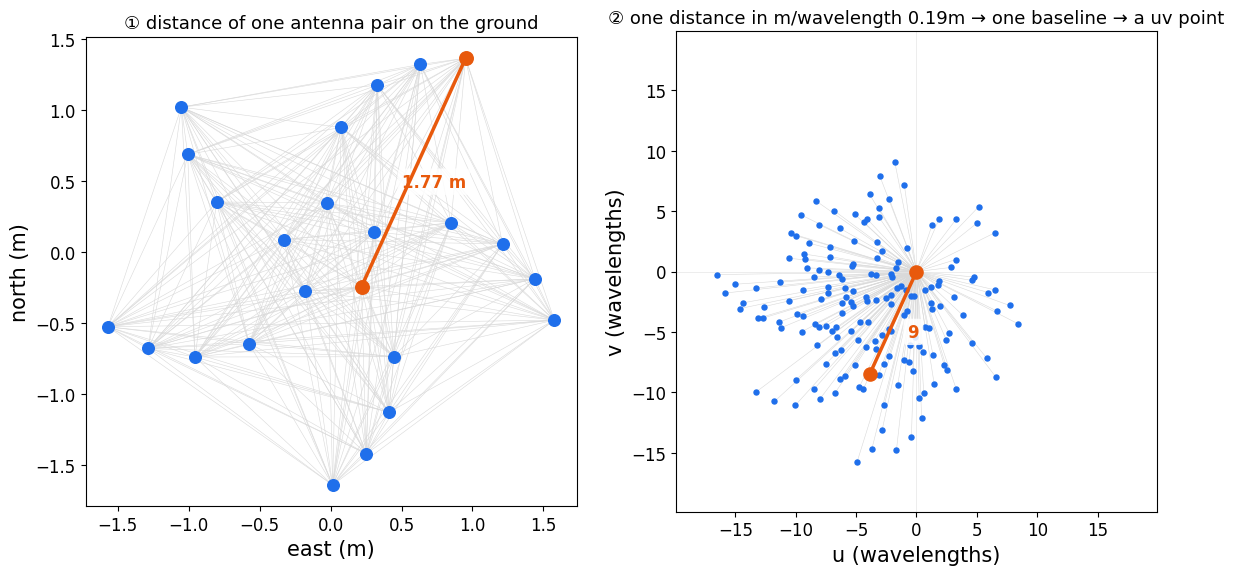
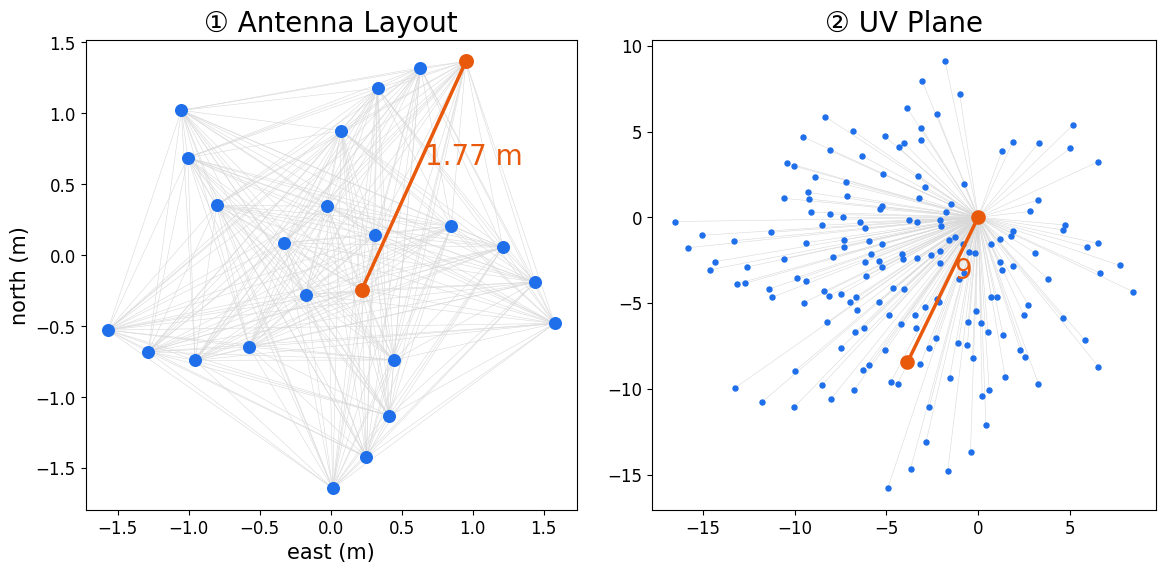
Title changed, Fringe slider variation added, Page number changed, uv1 changed

diff --git a/src/App.jsx b/src/App.jsx
@@ -27,7 +27,7 @@ const SLIDE_DATA = [
       { src: "/conf3.jpg", caption: "Prof. Tim Molteno lecturing" },
     ] },
 
-  { layout: "agenda", title: "What the Next 13 Minutes Look Like",
+  { layout: "agenda", title: "Overview of the talk",
     lead: "Interferometry: instead of one huge dish, link many small antennas — compare the waves each pair catches, and the maths turns them into a single giant telescope.",
     parts: [
       { num: "01", title: "Feel the Interferometry",
@@ -89,17 +89,36 @@ const SLIDE_DATA = [
     sep: 1.40, ang: 120, size: 160 },
 
 
-    { stage: "The Map", title: "A Baseline Becomes a Point",
+    { stage: "The Map", title: "Antennas and u-v plane",
     layout: "stack", images: ["/uv1.png"] },
-  { stage: "The Map", title: "Calibration Rotates the Arrows",
+  { stage: "The Map", title: "Visibility Vectors",
     layout: "stack", images: ["/uv2.png"] },
-  { stage: "The Map", title: "Corrected, Plus the Conjugate Twins",
+  { stage: "The Map", title: "Visibility Complex Conjugates",
     layout: "stack", images: ["/uv3.png"] },
-  { stage: "The Map", title: "The Complete uv-Map — and the To-Do List",
-    layout: "stack", images: ["/uv4.png"] },
 
-  { stage: "The Payoff", title: "Add the Fringes → the Sky Appears",
+  { stage: "The Payoff", title: "All Pairs in the Array - fringe",
     layout: "stack", images: [], after: "slider" },
+
+  // ── PRINT-ONLY: nine frozen frames of the same slider, so the PDF shows the
+  //    baselines accumulating the way the live control does. 34 frames exist.
+  { stage: "The Payoff", title: "All Pairs in the Array - fringe", printOnly: true,
+    layout: "stack", images: [], after: "slider", frame: 0 },
+  { stage: "The Payoff", title: "All Pairs in the Array - fringe", printOnly: true,
+    layout: "stack", images: [], after: "slider", frame: 3 },
+  { stage: "The Payoff", title: "All Pairs in the Array - fringe", printOnly: true,
+    layout: "stack", images: [], after: "slider", frame: 6 },
+  { stage: "The Payoff", title: "All Pairs in the Array - fringe", printOnly: true,
+    layout: "stack", images: [], after: "slider", frame: 10 },
+  { stage: "The Payoff", title: "All Pairs in the Array - fringe", printOnly: true,
+    layout: "stack", images: [], after: "slider", frame: 14 },
+  { stage: "The Payoff", title: "All Pairs in the Array - fringe", printOnly: true,
+    layout: "stack", images: [], after: "slider", frame: 19 },
+  { stage: "The Payoff", title: "All Pairs in the Array - fringe", printOnly: true,
+    layout: "stack", images: [], after: "slider", frame: 24 },
+  { stage: "The Payoff", title: "All Pairs in the Array - fringe", printOnly: true,
+    layout: "stack", images: [], after: "slider", frame: 29 },
+  { stage: "The Payoff", title: "All Pairs in the Array - fringe", printOnly: true,
+    layout: "stack", images: [], after: "slider", frame: 33 },
   
 
   // ───────── SLIDE 6: the whole pipeline in one picture ─────────
@@ -239,6 +258,11 @@ const SLIDE_DATA = [
 
 
 
+// Total shown in "N of TOTAL" — print-only variations don't count.
+const TOTAL_SLIDES = SLIDE_DATA.filter(s => !s.printOnly).length;
+// The links footer starts at the pipeline flowchart and runs to the end.
+const FOOTER_FROM = SLIDE_DATA.findIndex(s => s.layout === "flowchart");
+
 export default function App() {
 	  const currentUrl = typeof window !== 'undefined' ? window.location.href : 'https://stimela-talk.vercel.app';
 
@@ -249,16 +273,14 @@ export default function App() {
 				        // print-only slides don't consume a number: each carries the
 				        // number of the visible slide it varies.
 				        const visibleCount = SLIDE_DATA.slice(0, i + 1).filter(s => !s.printOnly).length;
-				        const formattedNumber = String(visibleCount).padStart(2, '0');
-
+				        
 				        return (
 						          <section key={slideIndex}
 						                   className={slide.printOnly ? "slide-page print-only" : "slide-page"}>
 						            <div className="minimalist-frame">
 						              
 						              <header className="slide-header">
-						                <span className="slide-num">{formattedNumber}</span>
-						                <div className="qr-container">
+						                						                <div className="qr-container">
 						                  <QRCodeSVG value={currentUrl} size={70} level={"L"} />
                                                                                                                 <span className="qr-label">
                                 <span className="qr-cta">SCAN TO PLAY WITH THIS SLIDE</span>
@@ -326,7 +348,7 @@ export default function App() {
             }
     <h1>{slide.title}</h1>
     <div className="img-stack">
-      {slide.after === "slider" && <FringeSlider />}
+      {slide.after === "slider" && <FringeSlider frame={slide.frame ?? null} />}
       {slide.images.map((src, k) => <img key={k} src={src} alt="" />)}
     </div>
   </div>
@@ -522,16 +544,20 @@ export default function App() {
   </div>
 )}
 
-<footer className="slide-links">
-  <div className="sl-item">
-    <span className="sl-kicker">TART map &amp; documentation</span>
-    <code>https://tart.elec.ac.nz/</code>
-  </div>
-  <div className="sl-item">
-    <span className="sl-kicker">Stimela recipes &amp; documentation</span>
-    <code>git clone https://github.com/gwynbleiddrivia/tart-stimela-run</code>
-  </div>
-</footer>
+{i >= FOOTER_FROM && (
+  <footer className="slide-links">
+    <div className="sl-item">
+      <span className="sl-kicker">TART map &amp; documentation</span>
+      <code>https://tart.elec.ac.nz/</code>
+    </div>
+    <div className="sl-item">
+      <span className="sl-kicker">Stimela recipes &amp; documentation</span>
+      <code>git clone https://github.com/gwynbleiddrivia/tart-stimela-run</code>
+    </div>
+  </footer>
+)}
+
+<div className="page-num">{visibleCount} of {TOTAL_SLIDES}</div>
 
 
 

diff --git a/src/FringeSlider.jsx b/src/FringeSlider.jsx
@@ -1,16 +1,24 @@
 import { useState, useEffect } from "react";
 const N = 34;   // = the number Colab printed
-export default function FringeSlider() {
+// `frame` freezes the slider on one frame and hides the control — used by the
+// print-only slides, so the PDF can show the progression the live slider shows.
+export default function FringeSlider({ frame = null }) {
   const [i, setI] = useState(N - 1);
   useEffect(() => { for (let j = 0; j < N; j++) { const im = new Image(); im.src = `/frames/frame_${String(j).padStart(3,"0")}.png`; } }, []);
-  const src = `/frames/frame_${String(i).padStart(3,"0")}.png`;
+  const frozen = frame !== null;
+  const idx = frozen ? Math.max(0, Math.min(N - 1, frame)) : i;
+  const src = `/frames/frame_${String(idx).padStart(3,"0")}.png`;
   return (
     <div style={{ textAlign: "center", width: "100%" }}>
       <img src={src} alt="" onError={() => console.log("missing:", src)}
      style={{ maxWidth: "100%", height: "auto", borderRadius: 6 }} />
 
-      <input type="range" min={0} max={N-1} value={i} onChange={e => setI(+e.target.value)} style={{ width: "85%", marginTop: 12 }} />
-      <div style={{ fontFamily: "monospace", color: "#666", marginTop: 6 }}>drag → add baselines one by one</div>
+      {!frozen && (
+        <input type="range" min={0} max={N-1} value={i} onChange={e => setI(+e.target.value)} style={{ width: "85%", marginTop: 12 }} />
+      )}
+      <div style={{ fontFamily: "monospace", color: "#666", marginTop: 6 }}>
+        {frozen ? `${idx + 1} of ${N} baselines added` : "drag → add baselines one by one"}
+      </div>
     </div>
   );
 }

diff --git a/src/App.css b/src/App.css
@@ -397,6 +397,13 @@
   .ht-fig img { max-height: 48vh; }
 }
 
+/* --- PAGE NUMBER: bottom-right of every slide. In flow as the last child of
+       .minimalist-frame (which is a flex column), so it can never overlap the
+       links footer the way an absolutely-positioned one would. One small line. */
+.page-num { align-self: flex-end; flex: 0 0 auto; margin-top: 6px;
+            font-family: monospace; font-size: clamp(0.62rem, 0.85vw, 0.78rem);
+            letter-spacing: 0.5px; color: #999; user-select: none; }
+
 /* --- PRINT-ONLY SLIDES: frozen explorer settings that exist for the PDF.
        They are in SLIDE_DATA but never shown on the live deck. --- */
 @media screen {
@@ -473,6 +480,9 @@
 
   /* CONVERGE: leave room for the footer */
   .cv-svg { max-height: 50vh; }
+
+  /* PAGE NUMBER: smaller still on paper, and never its own page */
+  .page-num { margin-top: 4px; font-size: 0.58rem; color: #777; }
 
   /* HUB + TABLE / IMAGE: box and content share one page.
      Portrait paper is ~794px wide, which fires the 900px mobile query above —
